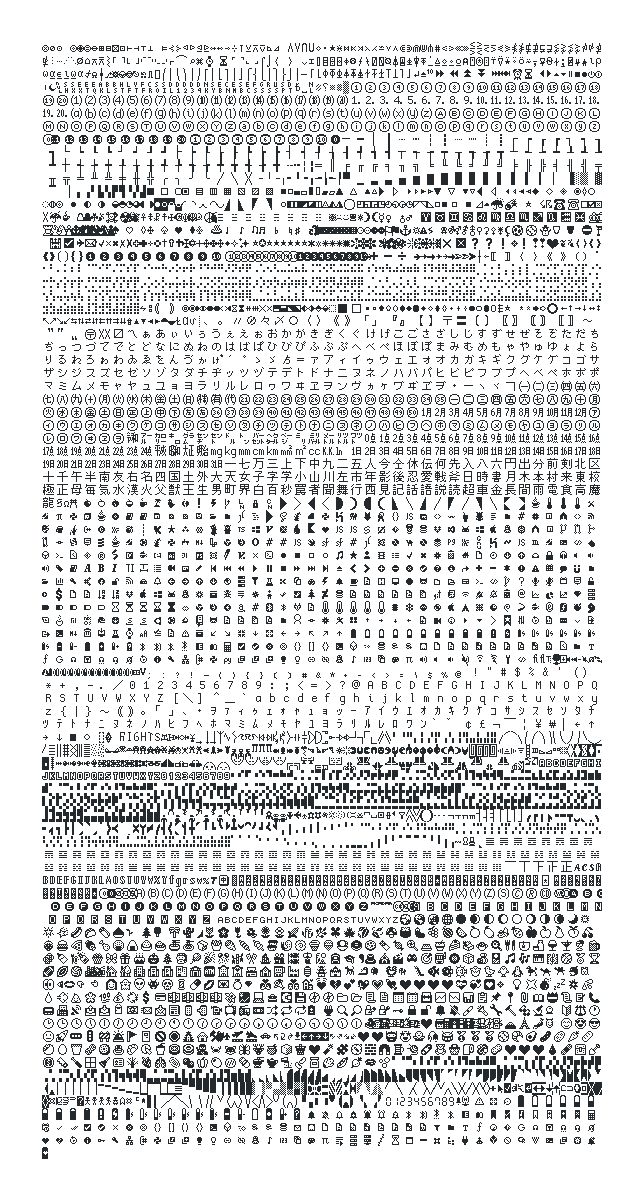
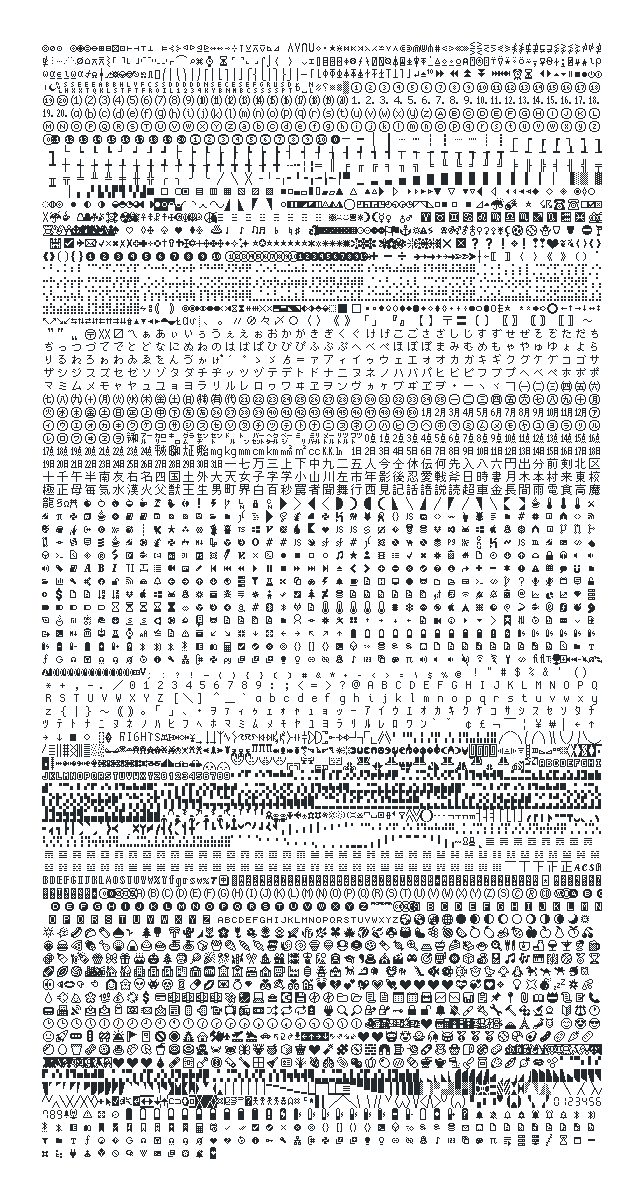
v.2.0.0

Changed region(s): [[0.0621, 0.8619, 0.9317, 0.9542]]

diff --git a/CHANGELOG.md b/CHANGELOG.md
@@ -7,6 +7,22 @@ The format is based on [Keep a Changelog], and this project adheres to
 
 ## [Unreleased]
 
+## [2.0.0]
+
+### Important:
+
+- The foundry has changed to `samhain`.
+- The copyright notice changed to include contributors - if you use or distribute Cozette please remember to update the copyright notice.
+- Regular and Bold font variants changed to same name but different styles so that they form a single font family
+
+Thank you to the contributors:
+- [PhMajerus](https://www.github.com/PhMajerus)
+- [breitnw](https://www.github.com/breitnw)
+- [kachick](https://www.github.com/kachick)
+- [Eejit43](https://www.github.com/Eejit43)
+- [WhyNotHugo](https://www.github.com/WhyNotHugo)
+- [Mogwump](https://www.github.com/Mogwump)
+
 ### Added
 
 - ⊌ (U+228C MULTISET)
@@ -379,6 +395,30 @@ The format is based on [Keep a Changelog], and this project adheres to
 - 🧻 (U+1F9FB ROLL OF PAPER)
 - 🧼 (U+1F9FC BAR OF SOAP)
 - 🧽 (U+1F9FD SPONGE)
+- 🨀 (U+1FA00 NEUTRAL CHESS KING)
+- 🨁 (U+1FA01 NEUTRAL CHESS QUEEN)
+- 🨂 (U+1FA02 NEUTRAL CHESS ROOK)
+- 🨃 (U+1FA03 NEUTRAL CHESS BISHOP)
+- 🨄 (U+1FA04 NEUTRAL CHESS KNIGHT)
+- 🨅 (U+1FA05 NEUTRAL CHESS PAWN)
+- 🨞 (U+1FA1E WHITE CHESS TURNED KING)
+- 🨟 (U+1FA1F WHITE CHESS TURNED QUEEN)
+- 🨠 (U+1FA20 WHITE CHESS TURNED ROOK)
+- 🨡 (U+1FA21 WHITE CHESS TURNED BISHOP)
+- 🨢 (U+1FA22 WHITE CHESS TURNED KNIGHT)
+- 🨣 (U+1FA23 WHITE CHESS TURNED PAWN)
+- 🨤 (U+1FA24 BLACK CHESS TURNED KING)
+- 🨥 (U+1FA25 BLACK CHESS TURNED QUEEN)
+- 🨦 (U+1FA26 BLACK CHESS TURNED ROOK)
+- 🨧 (U+1FA27 BLACK CHESS TURNED BISHOP)
+- 🨨 (U+1FA28 BLACK CHESS TURNED KNIGHT)
+- 🨩 (U+1FA29 BLACK CHESS TURNED PAWN)
+- 🨪 (U+1FA2A NEUTRAL CHESS TURNED KING)
+- 🨫 (U+1FA2B NEUTRAL CHESS TURNED QUEEN)
+- 🨬 (U+1FA2C NEUTRAL CHESS TURNED ROOK)
+- 🨭 (U+1FA2D NEUTRAL CHESS TURNED BISHOP)
+- 🨮 (U+1FA2E NEUTRAL CHESS TURNED KNIGHT)
+- 🨯 (U+1FA2F NEUTRAL CHESS TURNED PAWN)
 - 🩸 (U+1FA78 DROP OF BLOOD)
 - 🩹 (U+1FA79 ADHESIVE BANDAGE)
 - 🪎 (U+1FA8E)
@@ -467,7 +507,6 @@ The format is based on [Keep a Changelog], and this project adheres to
 -  (U+F03FF)
 -  (U+F073A)
 -  (U+F0AB7)
-
 
 ## [1.30.0]
 
@@ -6067,7 +6106,8 @@ Still broken on Windows.
 
 [keep a changelog]: https://keepachangelog.com/en/1.0.0/
 [semantic versioning]: https://semver.org/spec/v2.0.0.html
-[unreleased]: https://github.com/the-moonwitch/Cozette/compare/v.1.30.0...HEAD
+[unreleased]: https://github.com/the-moonwitch/Cozette/compare/v.2.0.0...HEAD
+[1.30.0]: https://github.com/the-moonwitch/Cozette/compare/v.1.30.0...v.2.0.0
 [1.30.0]: https://github.com/the-moonwitch/Cozette/compare/v.1.29.0...v.1.30.0
 [1.29.0]: https://github.com/the-moonwitch/Cozette/compare/v.1.28.0...v.1.29.0
 [1.28.0]: https://github.com/the-moonwitch/Cozette/compare/v.1.27.0...v.1.28.0

diff --git a/README.md b/README.md
@@ -295,6 +295,10 @@ Cozette includes contributions from:
 - [theridane]
 - [supersurviveur]
 - [breitnw]
+- [kachick]
+- [Eejit43]
+- [WhyNotHugo]
+- [Mogwump]
 - [estradiol enantate]
 
 # License & Acknowledgements
@@ -336,7 +340,10 @@ Cozette's builds use [bdfscale](https://github.com/philj56/bdfscale) by [philj56
 [theridane]: https://github.com/theridane
 [supersurviveur]: https://github.com/supersurviveur
 [breitnw]: https://github.com/breitnw
+[kachick]: https://github.com/kachick
+[Eejit43]: https://github.com/Eejit43
+[WhyNotHugo]: https://github.com/WhyNotHugo
+[Mogwump]: https://github.com/Mogwump
 [estradiol enantate]: https://en.wikipedia.org/wiki/Estradiol_enantate
 [port]: https://cgit.freebsd.org/ports/tree/x11-fonts/cozette
 [bufferline.nvim]: https://github.com/akinsho/bufferline.nvim
-[tmux]: 
